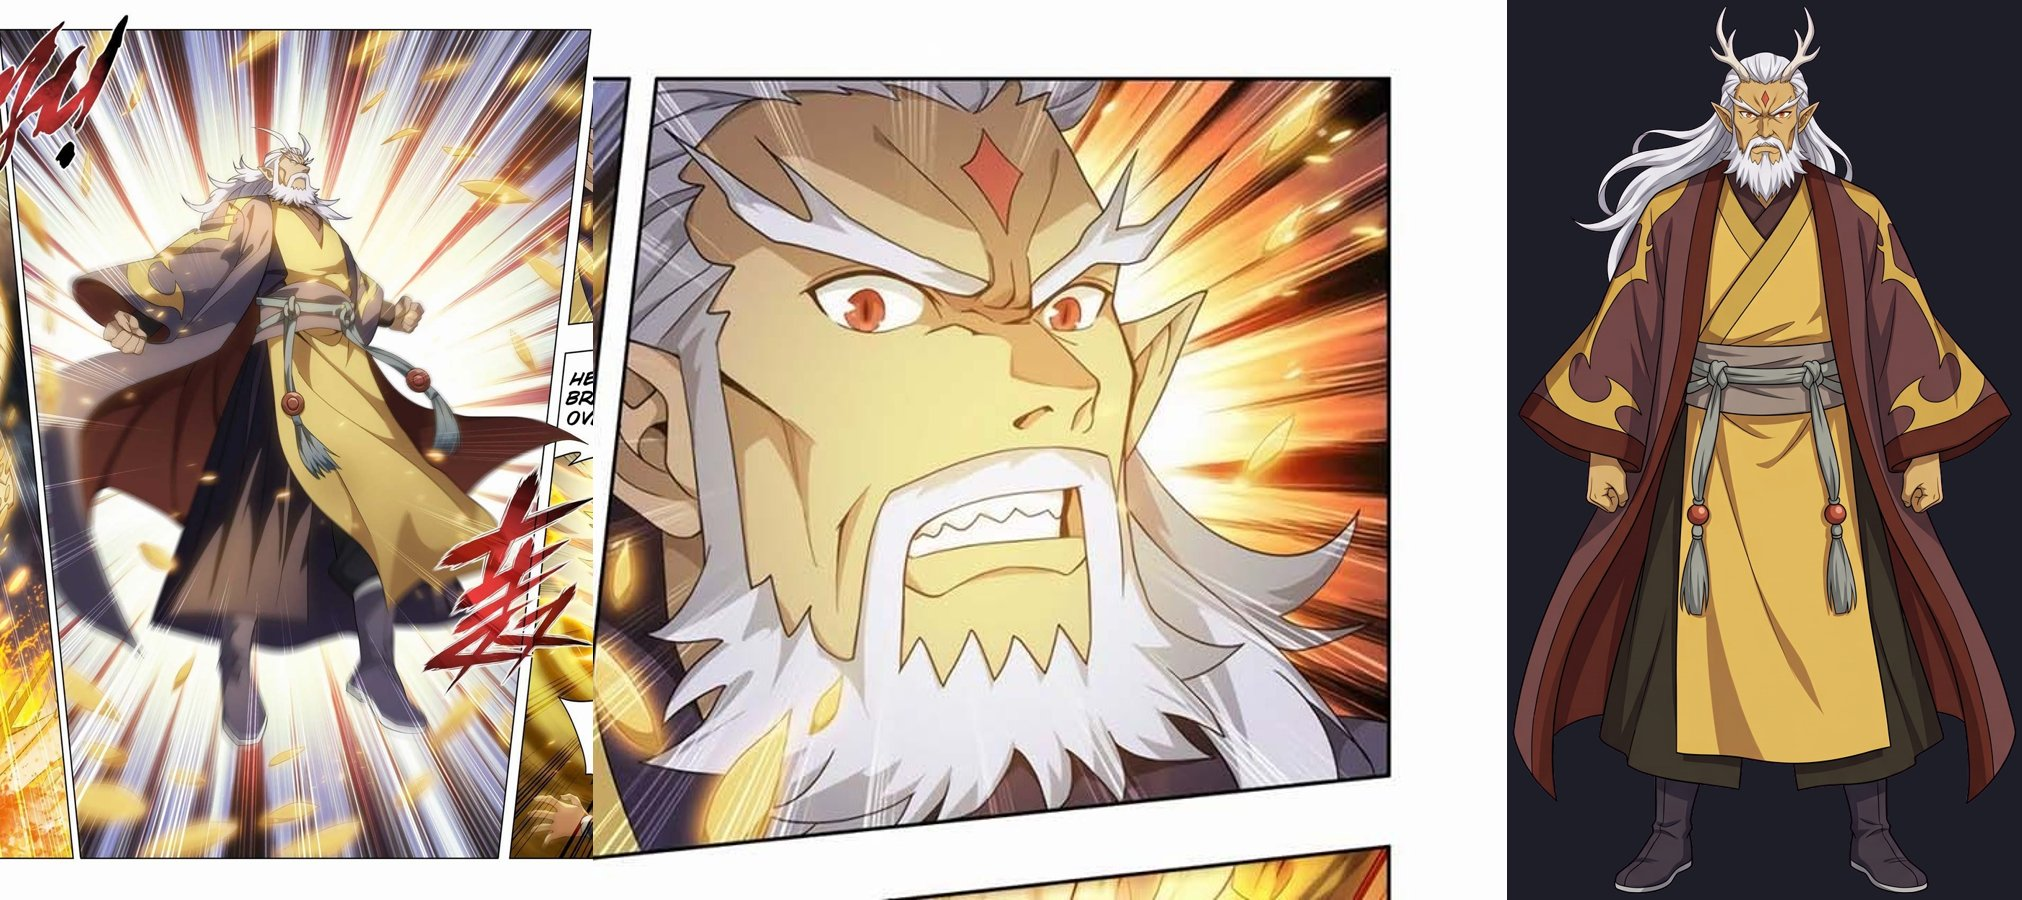
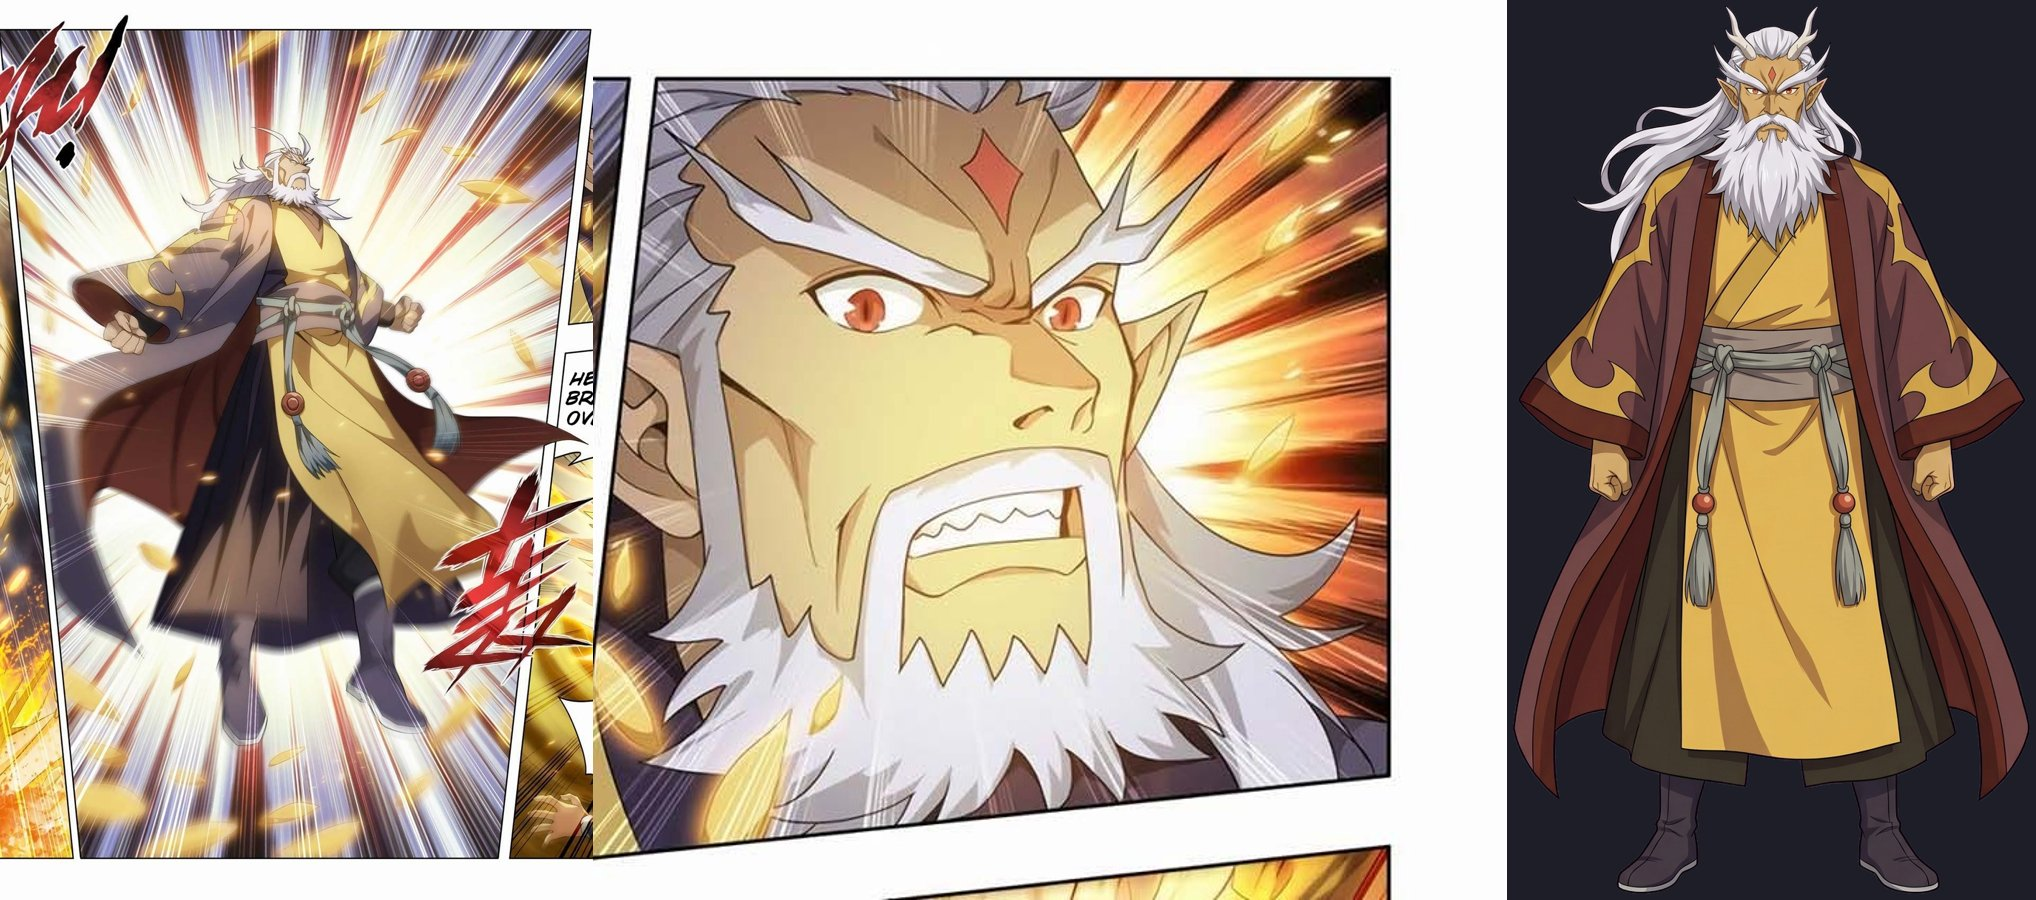
烛坤 human: small horns, fuller beard

diff --git a/dev/design/漫画复核进度.md b/dev/design/漫画复核进度.md
@@ -168,7 +168,7 @@
 | 炎烬（炎族族长） | yanjin | 440-20 字幕"YAN CLAN LEADER YAN JIN"；440-22 | 🆕 按漫画新画 ✅；下半身推补；剧情NPC/盟友 |
 | 北龙王·魔化形态（Boss二阶段） | beilongwang_demon | 434-06 化龙魔阵：暗红巨躯、骨刺、角冠、白鬃（红光页，鬃毛修正为白） | 🆕 ✅ 用户选A（两阶段） |
 
-| 烛坤·人形 (zhukun) | 457(龙形追击)/460-20,23 | 白发+白色小龙角、尖耳、额红菱印、白长须、橙红眼；金黄长袍+暗褐红大氅、灰腰带流苏红珠 | ✅ 新绘 | 457龙形与萧炎交手→逃；460人形再出手。龙形态待用户确认 |
+| 烛坤·人形 (zhukun) | 457(龙形追击)/460-20,23 | 白发+白色小龙角、尖耳、额红菱印、白长须、橙红眼；金黄长袍+暗褐红大氅、灰腰带流苏红珠 | ✅ 新绘→修正（大鹿角改为小白角、胡须眉毛加浓） | 457龙形与萧炎交手→逃；460人形再出手 |
 
 | 虚无吞炎 v2（按新规则重做） | xuwu_human / xuwu_beast | 438-09 蹲伏人形原格为底、438-22 扑击兽形原格为底；布带缠身+红漩涡纹、白细眼、头顶火簇；去红光还原黑灰 | ✅ 用户确认方向A后重做 | 旧版太规整缺布带质感（用户2B） |
 
